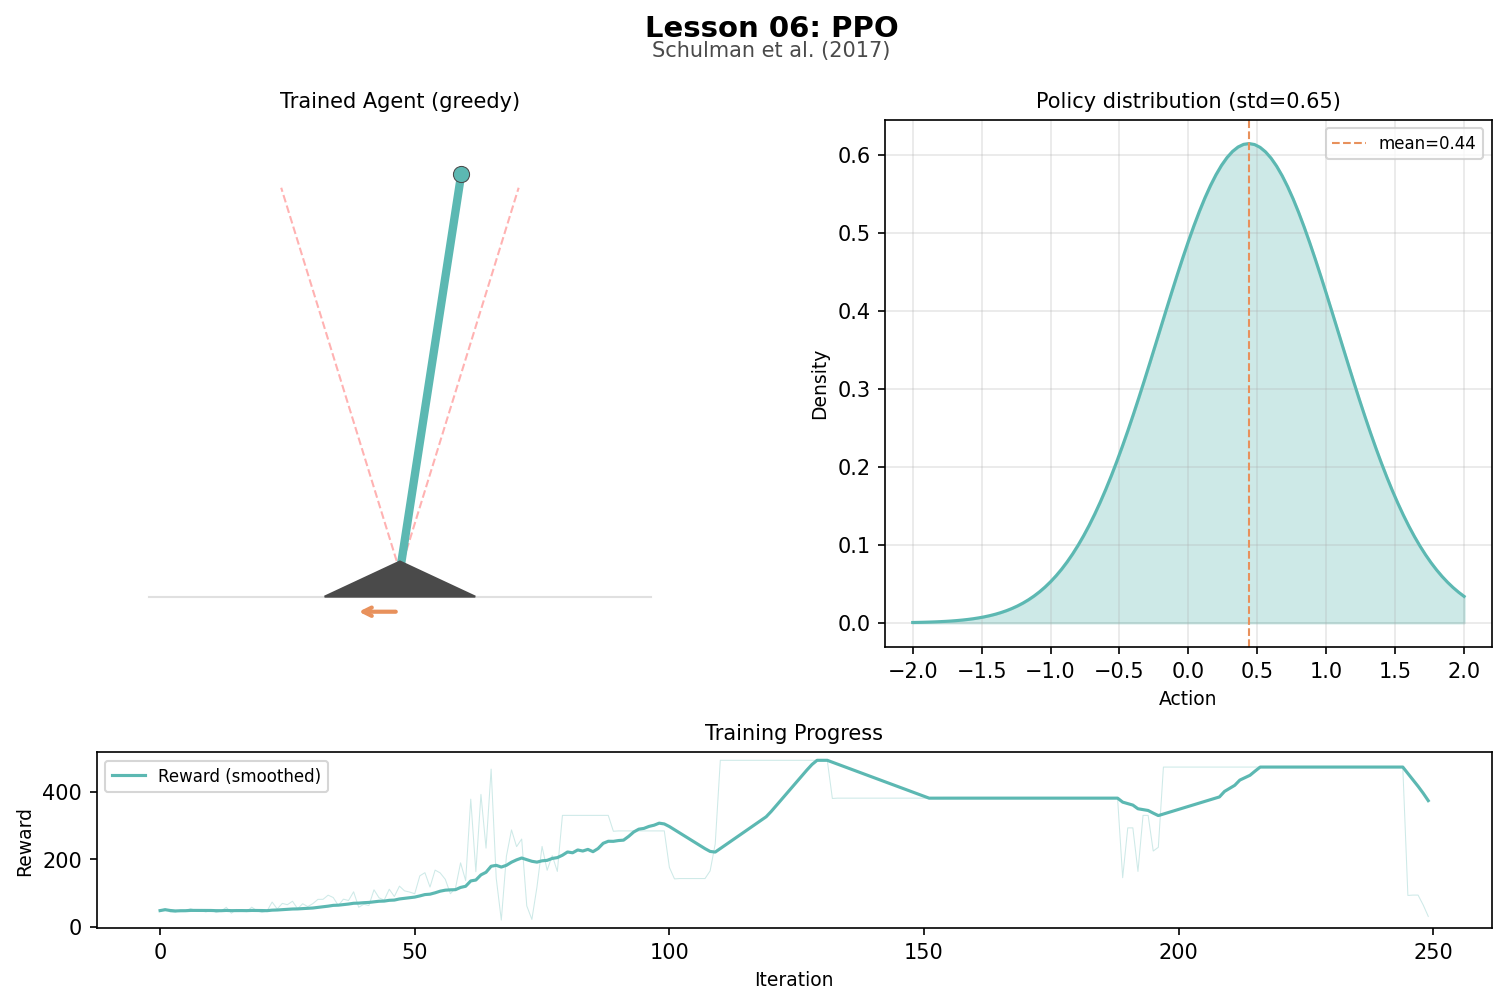
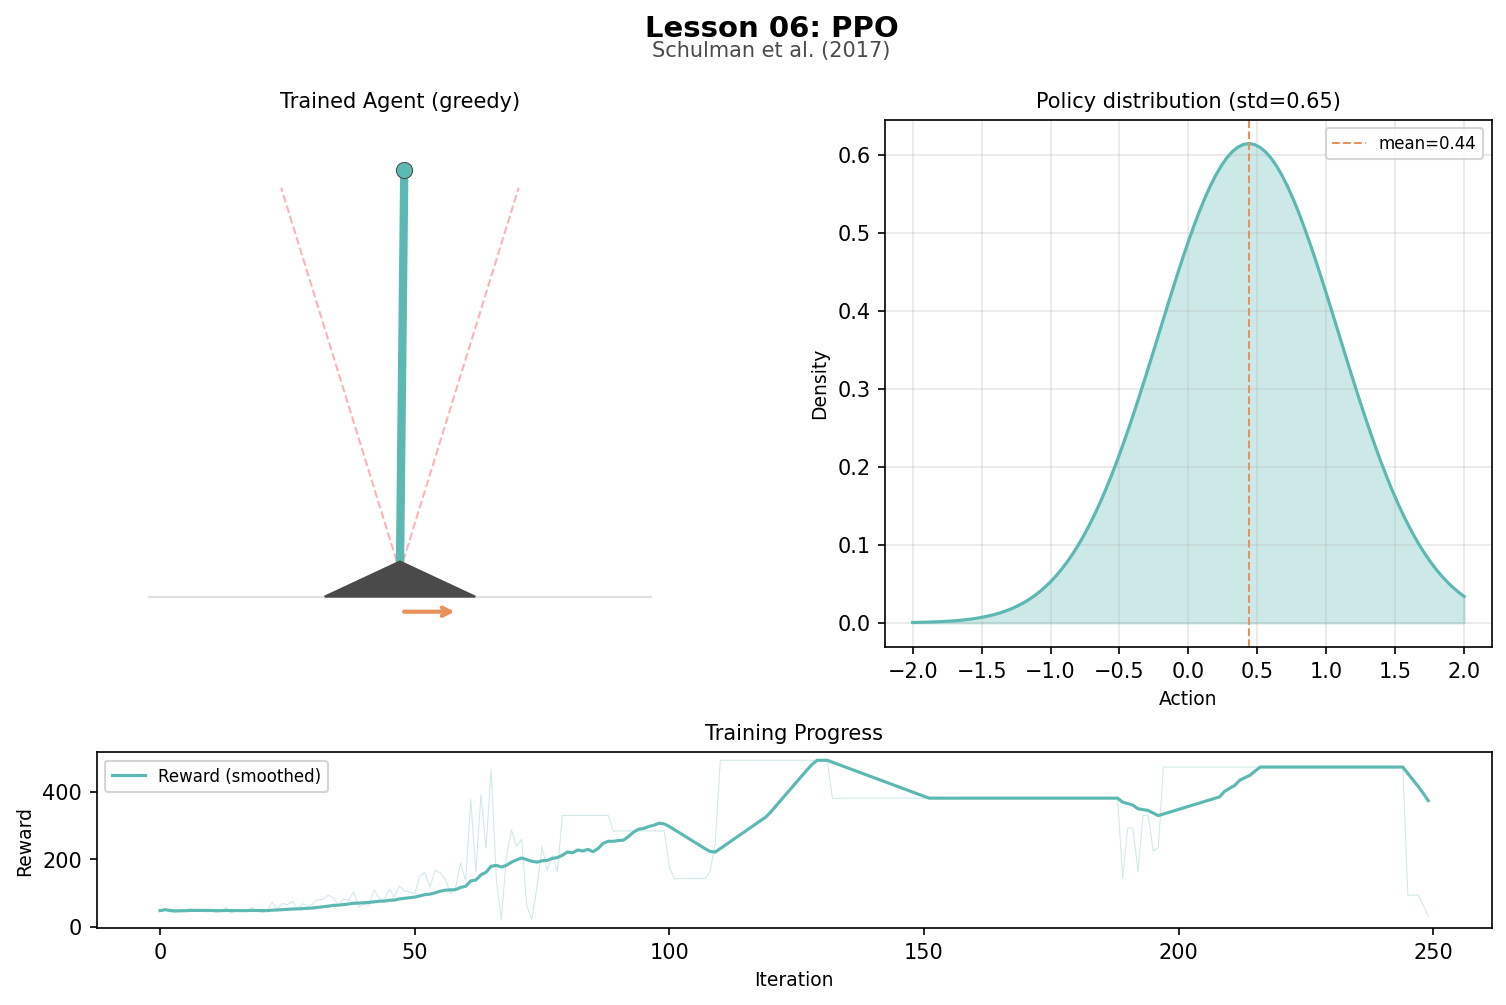
Picks most-upright frame for L06 poster
Poster frame now selects the evaluation step with the smallest
|angle| instead of an arbitrary quarter-point. Pole is visually
upright, matching L02's poster convention.

Changed region(s): [[0.2497, 0.1542, 0.3121, 0.5552], [0.2497, 0.5861, 0.3121, 0.6169]]

diff --git a/lessons/06_ppo.py b/lessons/06_ppo.py
@@ -97,7 +97,7 @@ def main():
       Actor network:  state -> [mean, log_std]
       Policy:         action ~ Gaussian(mean, exp(log_std))
 
-    A wide bell curve (large std) means the agent is uncertain —
+    A wide bell curve (large std) means the agent is uncertain—
     it explores by sampling a broad range of torques. A narrow
     bell curve (small std) means the agent is confident—it
     applies nearly the same torque every time.
@@ -214,7 +214,7 @@ def main():
     print("""
     PPO is on-policy: it collects a batch of experience, learns
     from it, then throws it away and collects fresh data. DQN
-    (Lesson 05) solved data efficiency through experience replay —
+    (Lesson 05) solved data efficiency through experience replay—
     a buffer of past transitions, sampled repeatedly. PPO cannot
     reuse old data because the policy has changed since it was
     collected, making the old transitions off-policy.
@@ -577,9 +577,14 @@ def main():
         figsize=(12, 7),
     )
 
-    # Use a mid-evaluation frame for the poster
-    poster_angle = eval_angles[len(eval_angles) // 4] if eval_angles else 0.0
-    poster_torque = eval_torques[len(eval_torques) // 4] if eval_torques else 0.0
+    # Pick the frame where the pole is most upright (smallest |angle|)
+    if eval_angles:
+        best_idx = min(range(len(eval_angles)), key=lambda i: abs(eval_angles[i]))
+        poster_angle = eval_angles[best_idx]
+        poster_torque = eval_torques[best_idx]
+    else:
+        poster_angle = 0.0
+        poster_torque = 0.0
     final_out, _ = network_forward(actor_net, [0.0, 0.0])
     poster_mean = final_out[0]
     poster_log_std = scalar.clamp(final_out[1], -2.0, 2.0)
